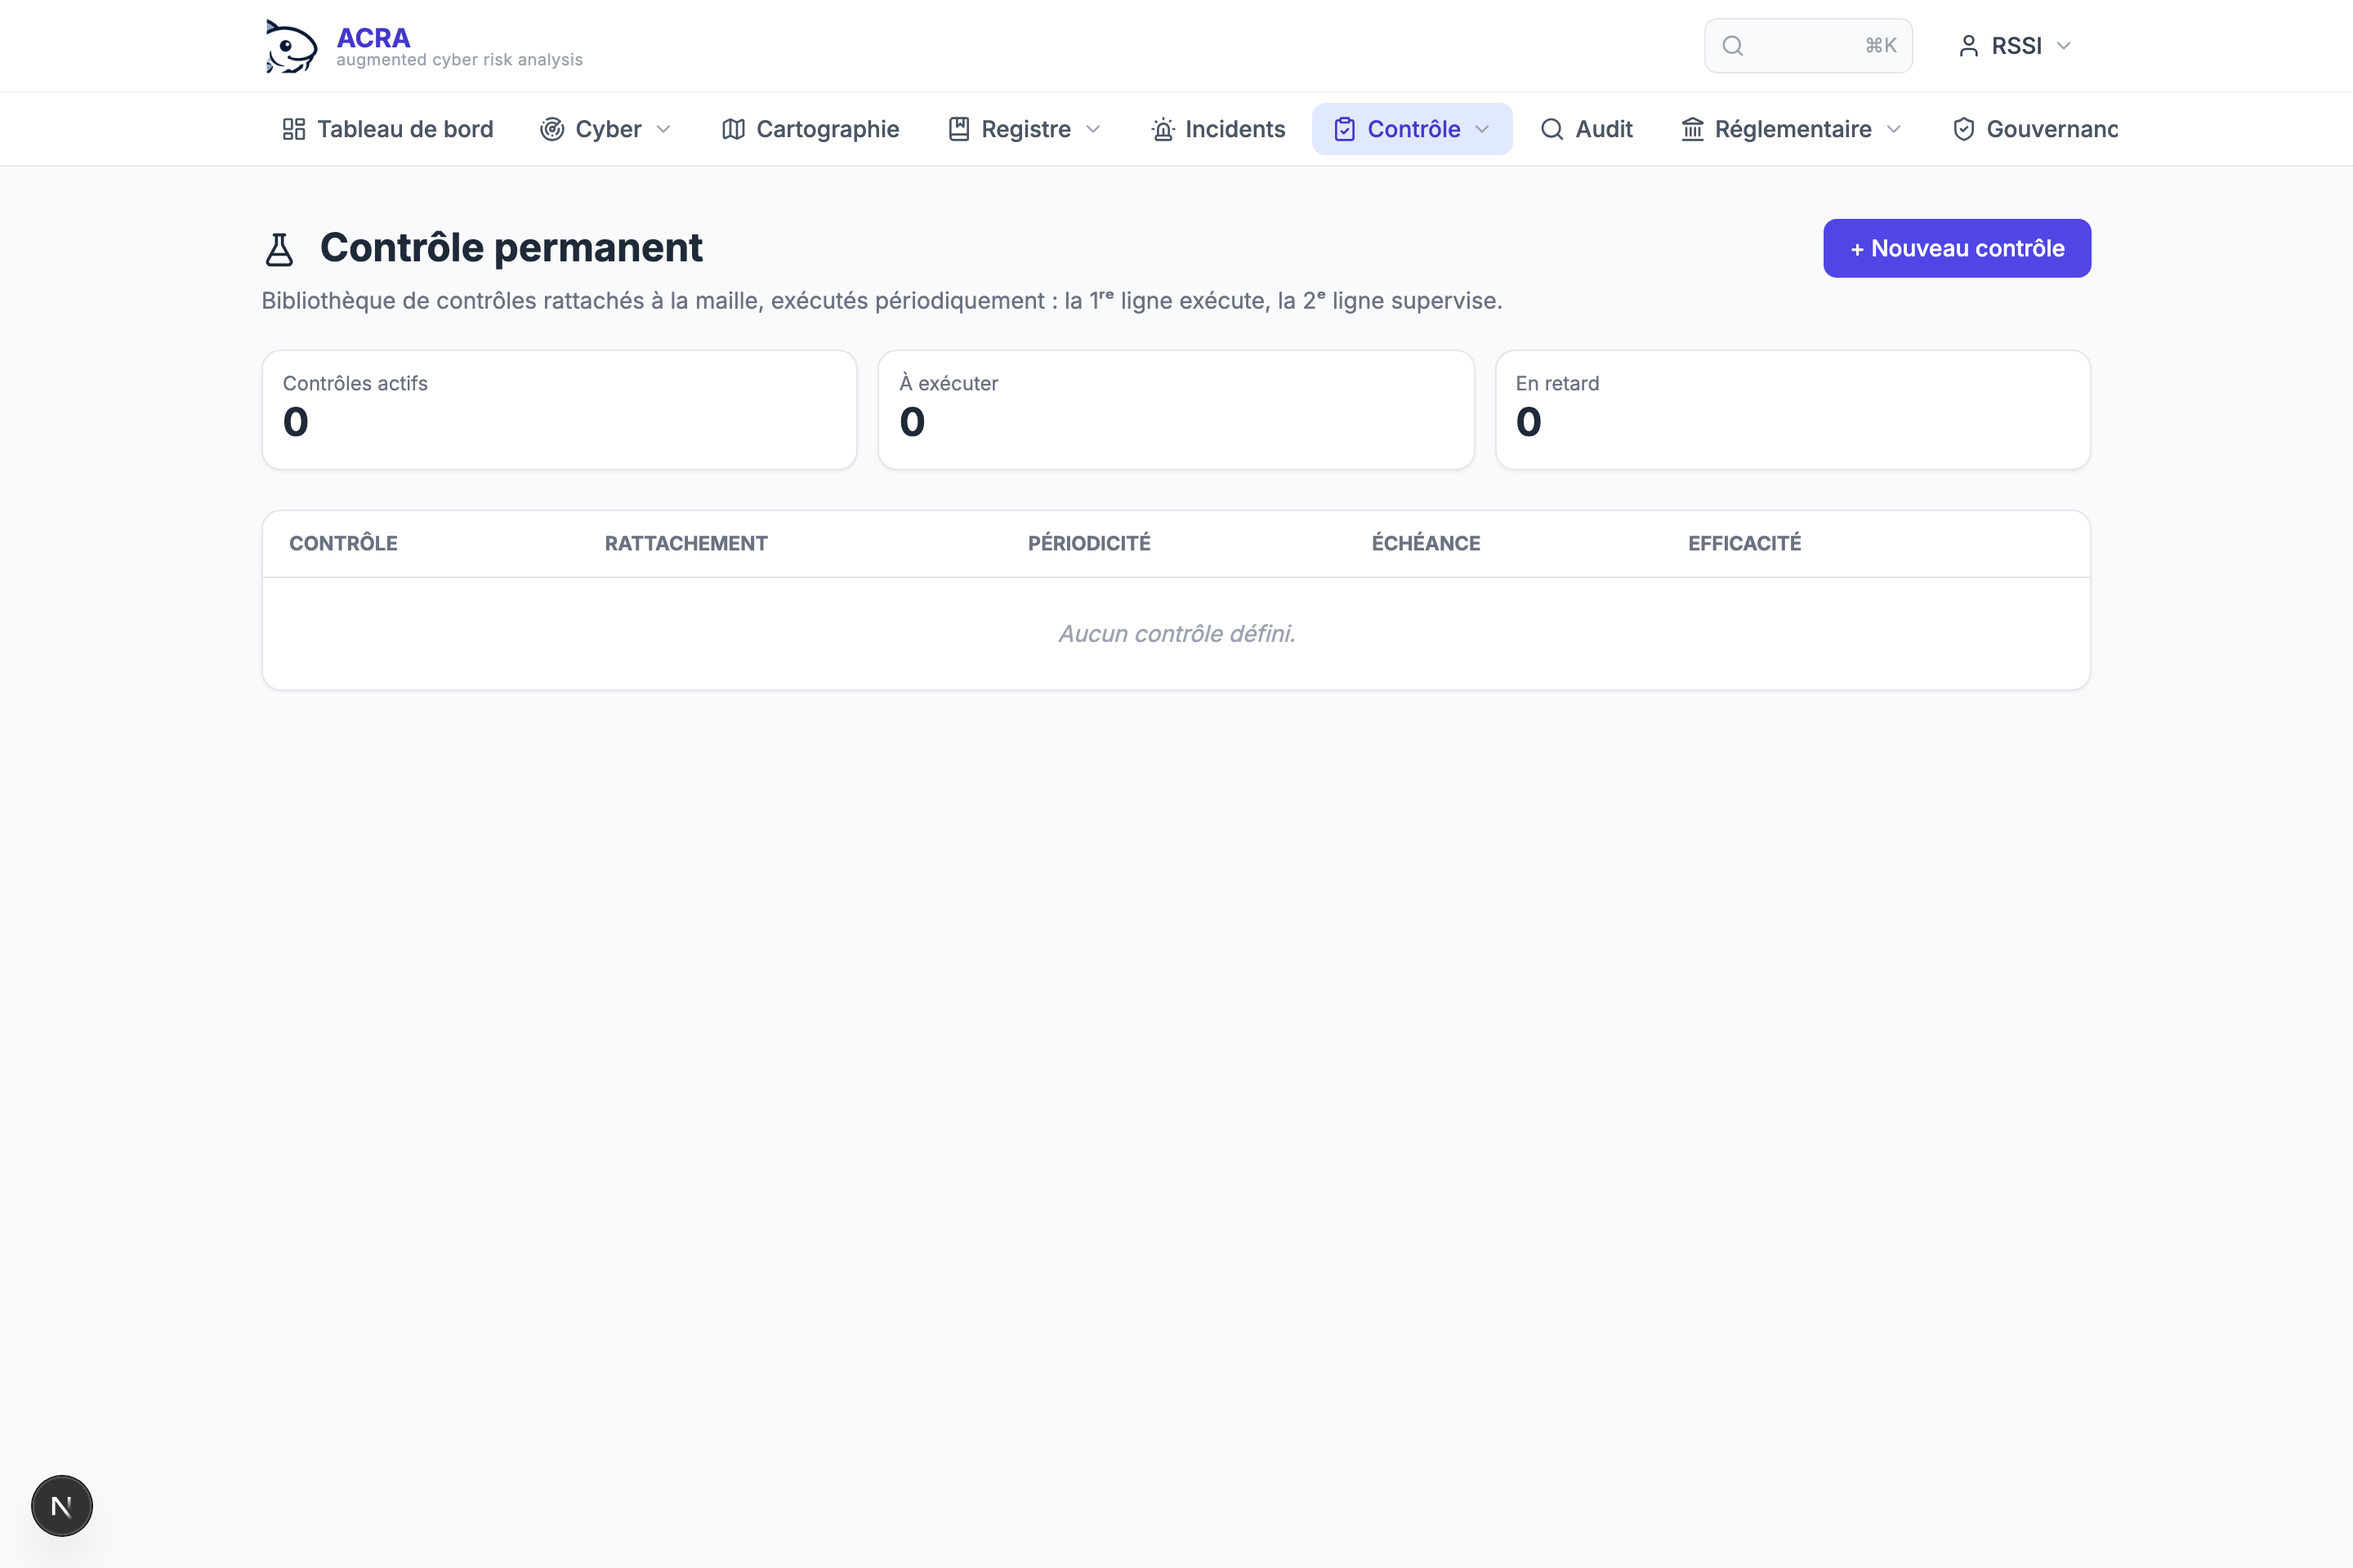
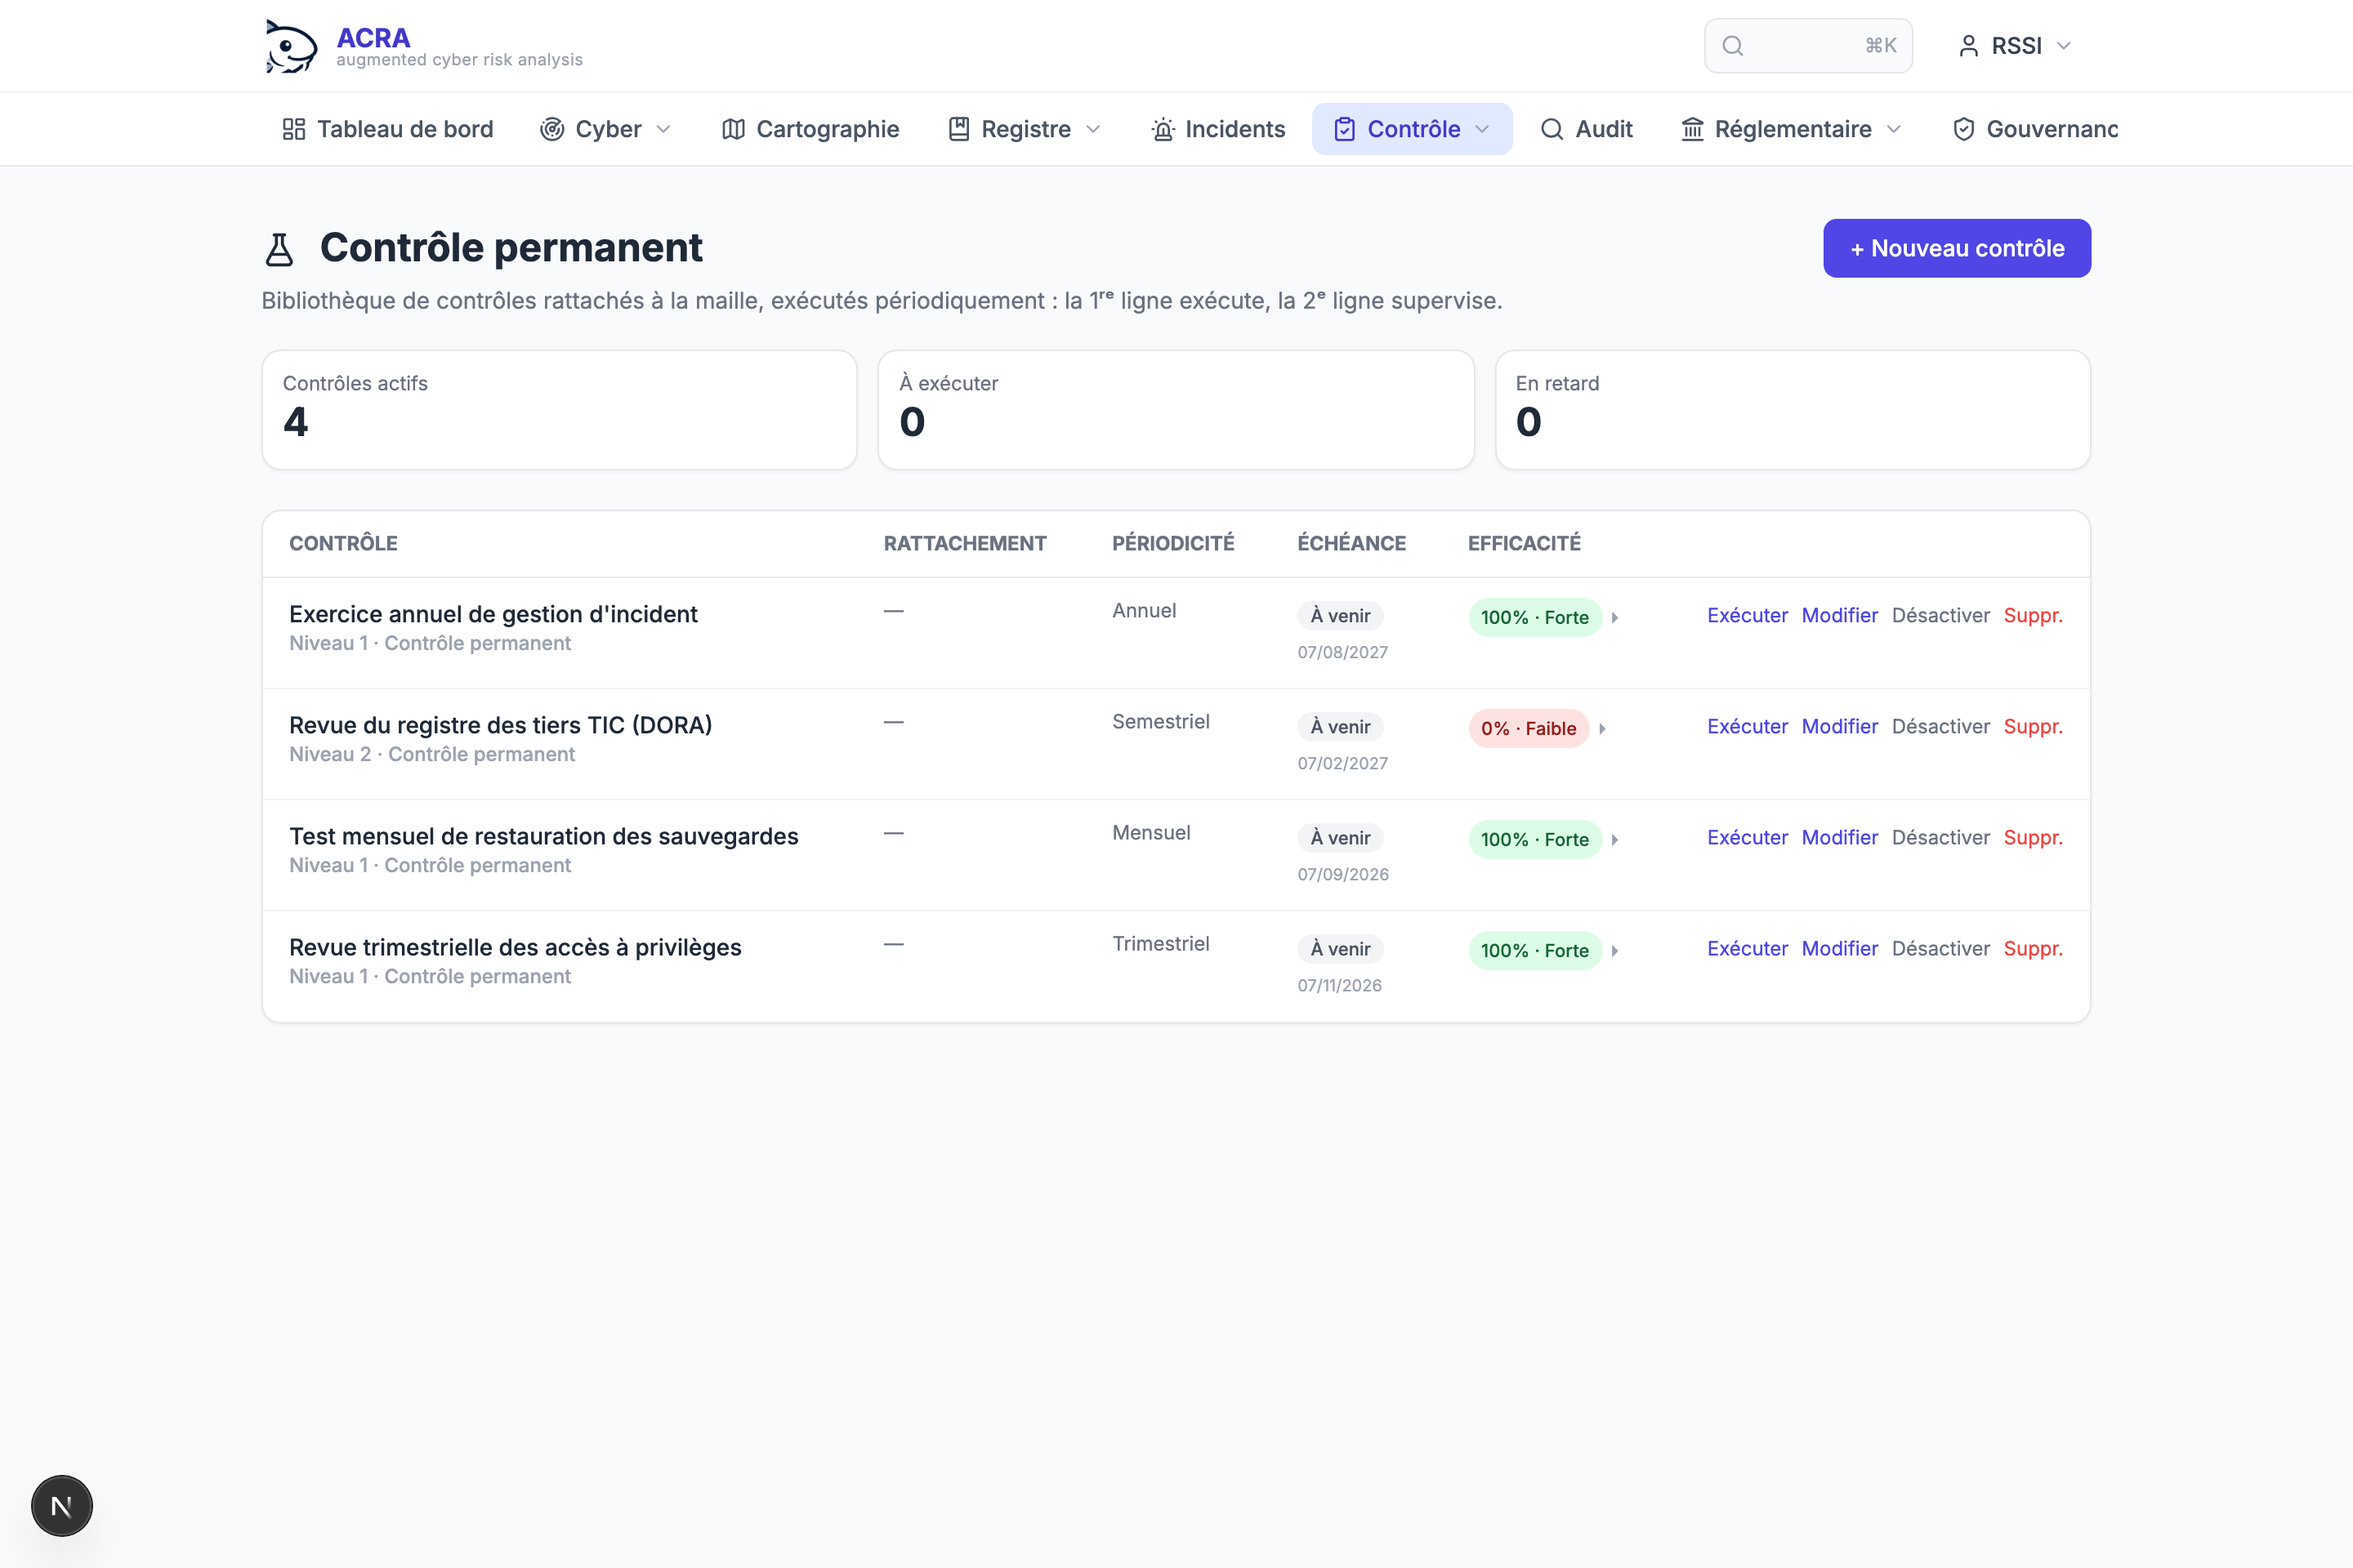
docs(readme): captures « couverture dérivée » + export rapport de contrôle interne (#25)
- Modale « Conformité dérivée » (couverture par les contrôles réels) sur la PSSI
  StarBank : statut par exigence conforme/partiel/anomalie/non couvert (clair + sombre).
- Rapport annuel de contrôle interne rendu en image (page 1) — appréciation, points
  d'attention, synthèse par ligne de défense + volet DORA.
- Seed de démo enrichi : contrôles permanents liés aux exigences de la politique socle
  (avec exécutions) → alimentent la couverture, le module Contrôle permanent et le cockpit.
  Cockpit/rapport re-capturés avec les données peuplées. Purge mise à jour.

🤖 Generated with [Claude Code](https://claude.com/claude-code)

diff --git a/prisma/seed-demo-realistic.ts b/prisma/seed-demo-realistic.ts
@@ -84,6 +84,26 @@ const RISQUES_REGISTRE: Record<string, RiskSeed[]> = {
   ],
 }
 
+// Contrôles permanents liés aux exigences de la politique socle → alimentent la
+// « conformité dérivée » (couverture) et le module Contrôle permanent.
+interface CtrlSeed { intitule: string; exigenceRefs: string[]; niveau: string; periodicite: string; resultat: string }
+const CONTROLES_DEMO: Record<string, CtrlSeed[]> = {
+  StarBank: [
+    { intitule: 'Revue trimestrielle des accès à privilèges', exigenceRefs: ['POL-05'], niveau: 'N1', periodicite: 'TRIMESTRIEL', resultat: 'CONFORME' },
+    { intitule: 'Test mensuel de restauration des sauvegardes', exigenceRefs: ['POL-10'], niveau: 'N1', periodicite: 'MENSUEL', resultat: 'CONFORME' },
+    { intitule: 'Revue du registre des tiers TIC (DORA)', exigenceRefs: ['POL-15', 'POL-16'], niveau: 'N2', periodicite: 'SEMESTRIEL', resultat: 'ANOMALIE' },
+    { intitule: 'Exercice annuel de gestion d\'incident', exigenceRefs: ['POL-12'], niveau: 'N1', periodicite: 'ANNUEL', resultat: 'CONFORME' },
+  ],
+  GalaxyInsurance: [
+    { intitule: 'Contrôle du chiffrement des données de santé', exigenceRefs: ['POL-06'], niveau: 'N1', periodicite: 'TRIMESTRIEL', resultat: 'CONFORME' },
+    { intitule: 'Revue des accès partenaires', exigenceRefs: ['POL-05'], niveau: 'N1', periodicite: 'TRIMESTRIEL', resultat: 'ANOMALIE' },
+  ],
+  Hydroclinical: [
+    { intitule: 'Test de bascule en mode dégradé (PRA)', exigenceRefs: ['POL-11'], niveau: 'N1', periodicite: 'SEMESTRIEL', resultat: 'CONFORME' },
+    { intitule: 'Contrôle des accès de télémaintenance éditeur', exigenceRefs: ['POL-05', 'POL-15'], niveau: 'N2', periodicite: 'TRIMESTRIEL', resultat: 'CONFORME' },
+  ],
+}
+
 /**
  * PURGE — retire EXACTEMENT ce que ce seed crée (jeu de démo réaliste), pour
  * repartir sur une instance vierge après l'installation. Sûr et idempotent :
@@ -104,6 +124,8 @@ async function purge() {
     await prisma.incident.deleteMany({ where: { organizationId: orgId, intitule: { in: sec.incidents.map(i => i.intitule) } } })
     // Registre des risques (par intitulé exact du seed)
     await prisma.riskItem.deleteMany({ where: { organizationId: orgId, intitule: { in: (RISQUES_REGISTRE[sec.nom] ?? []).map(r => r.intitule) } } })
+    // Contrôles permanents (cascade → exécutions)
+    await prisma.controle.deleteMany({ where: { organizationId: orgId, intitule: { in: (CONTROLES_DEMO[sec.nom] ?? []).map(c => c.intitule) } } })
     // Politique socle sectorielle
     await prisma.referentiel.deleteMany({ where: { organizationId: orgId, code: sec.codePol } })
     // Modules réactivables réinitialisés à OFF (données démo désactivées)
@@ -197,7 +219,24 @@ async function main() {
       } })
       rq++
     }
-    console.log(`✓ ${sec.nom} : modules ON · 3 comptes · politique ${pol.code} · ${created} incidents · ${rq} risques (registre)`)
+    // 6) Contrôles permanents liés aux exigences de la politique (conformité dérivée)
+    let ct = 0
+    for (const c of (CONTROLES_DEMO[sec.nom] ?? [])) {
+      const dup = await prisma.controle.findFirst({ where: { organizationId: orgId, intitule: c.intitule }, select: { id: true } })
+      if (dup) continue
+      const ctrl = await prisma.controle.create({ data: {
+        organizationId: orgId, intitule: c.intitule, niveau: c.niveau, periodicite: c.periodicite,
+        referentielCode: pol.code, exigenceRefs: c.exigenceRefs as unknown as object,
+        responsable: 'Contrôle permanent',
+      } })
+      await prisma.controleExecution.create({ data: {
+        controleId: ctrl.id, organizationId: orgId, resultat: c.resultat,
+        dateRealisation: new Date(now - 15 * 86_400_000), executantId: rssi!.id,
+        constat: c.resultat === 'ANOMALIE' ? 'Écart constaté — plan d\'action ouvert.' : null,
+      } })
+      ct++
+    }
+    console.log(`✓ ${sec.nom} : modules ON · 3 comptes · politique ${pol.code} · ${created} incidents · ${rq} risques · ${ct} contrôles`)
   }
   console.log('\nAnalyses EBIOS RM complètes (5 ateliers) :')
   for (const spec of ANALYSES_EBIOS) await creerAnalyseEbios(spec)

diff --git a/README.md b/README.md
@@ -183,6 +183,12 @@ d'audit — la conformité est *prouvée*, pas seulement déclarée.
 
 <img src="docs/screenshots/grc-referentiels-light.png" width="49%"> <img src="docs/screenshots/grc-referentiels-dark.png" width="49%">
 
+La **couverture dérivée** d'un référentiel : le statut de chaque exigence (conforme /
+partiel / anomalie / non couvert) est calculé à partir des **contrôles réels** qui la
+couvrent et des constats d'audit — ici la PSSI StarBank couverte par les contrôles permanents.
+
+<img src="docs/screenshots/grc-couverture-light.png" width="49%"> <img src="docs/screenshots/grc-couverture-dark.png" width="49%">
+
 ### 🚨 Incidents & pertes — reporting DORA (art. 19)
 
 Déclaration en 1ʳᵉ ligne, qualification en 2ᵉ ligne, pertes en logique **LDC** (brut,
@@ -219,6 +225,12 @@ versionné, rattaché à un référentiel / risque / organisation, téléchargem
 - **Rapport annuel de contrôle interne** — 3 lignes de défense + volet résilience DORA (PDF **et PPTX**)
 - **Registre DORA ITS** des incidents majeurs (art. 19) et **registre d'information des tiers TIC** (art. 28) — CSV
 - **Cartographie des risques** (PDF)
+
+Exemple — **rapport annuel de contrôle interne** (généré depuis les données de démo StarBank) :
+appréciation d'ensemble, points d'attention, puis synthèse par ligne de défense (contrôle
+permanent, gestion des risques & conformité, audit) et volet résilience DORA.
+
+<img src="docs/screenshots/grc-rapport-controle-interne.png" width="60%">
 
 ---
 
